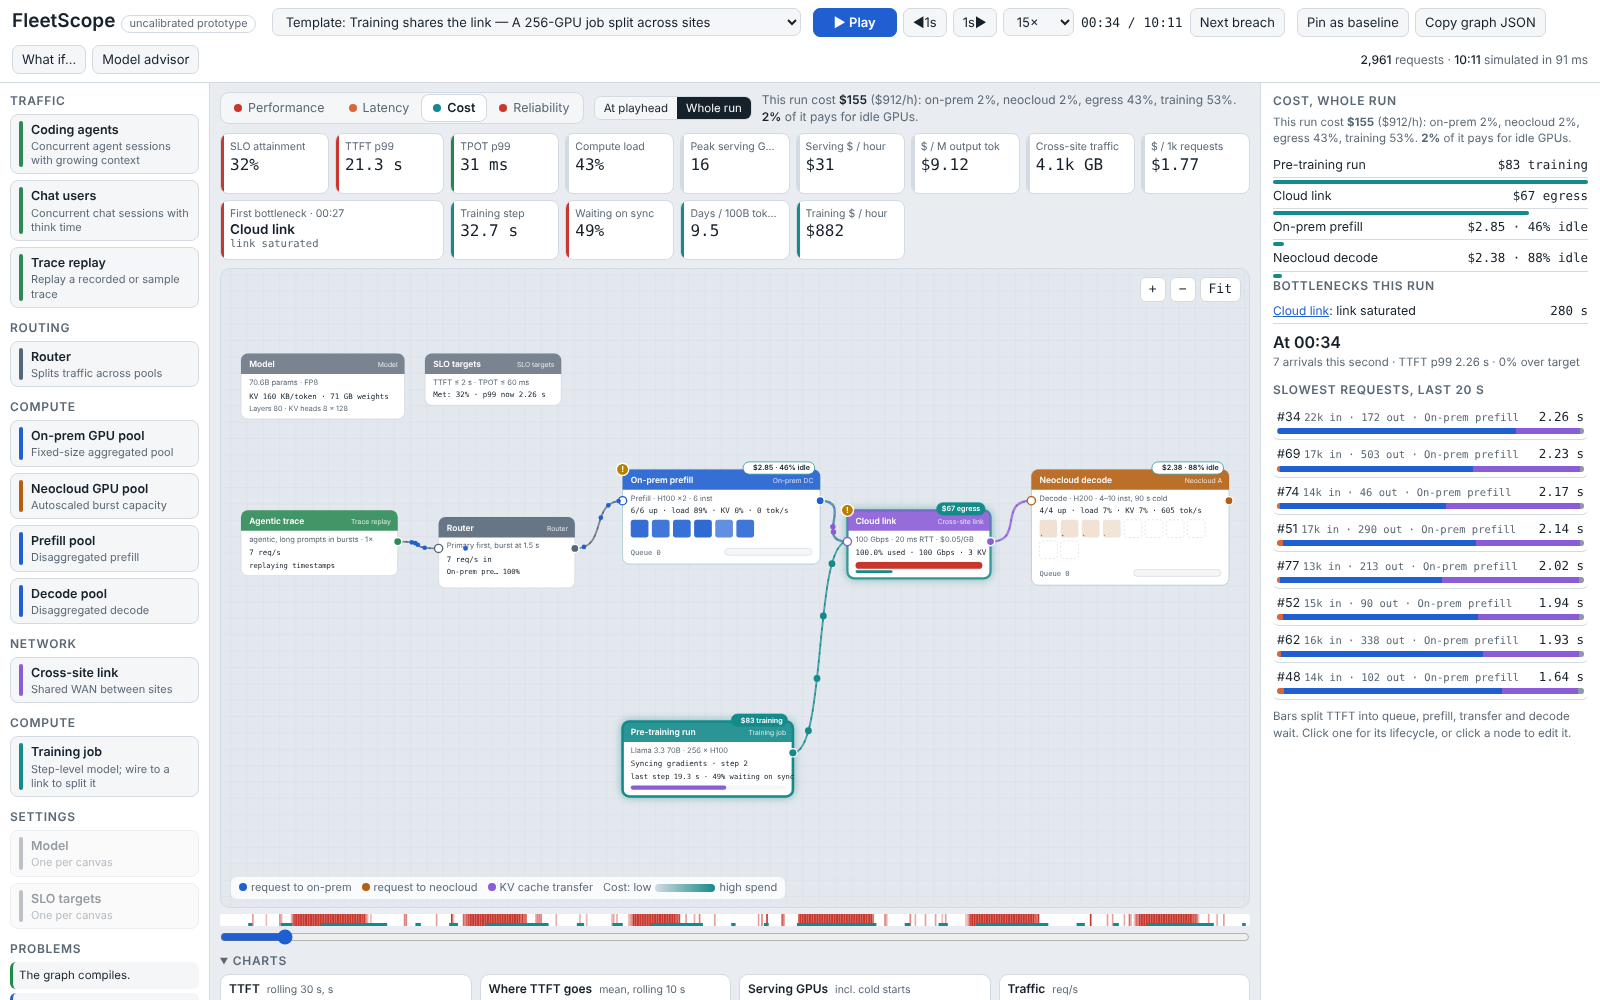
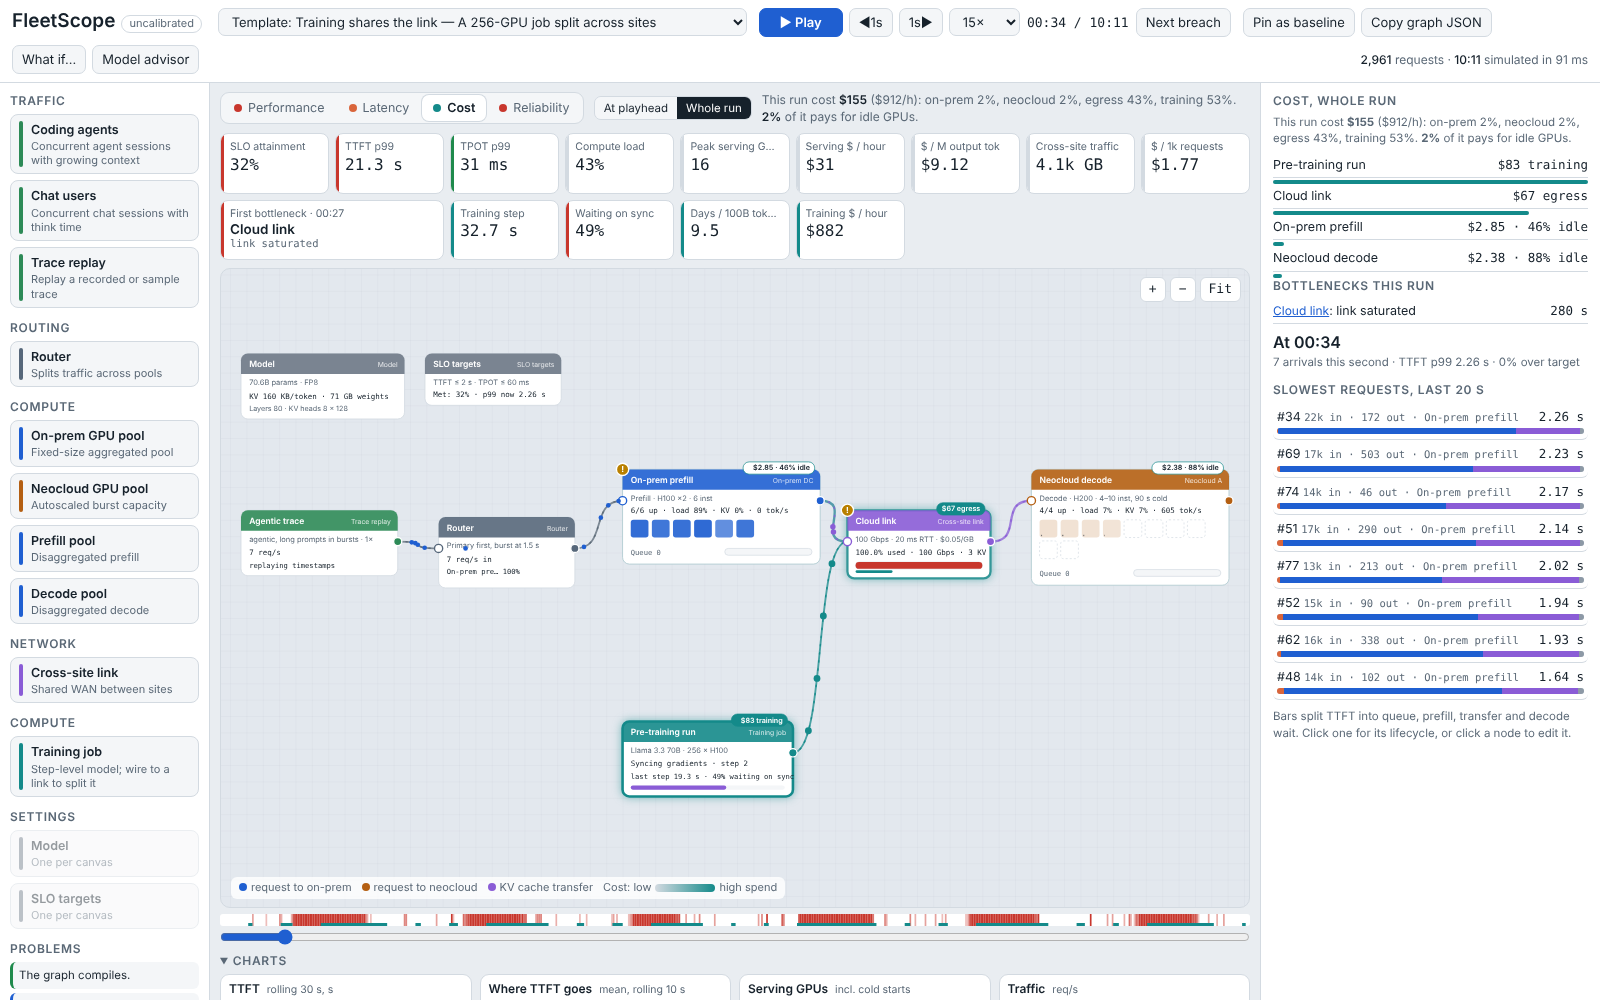
Remove "prototype" from FleetScope and the docs
- FleetScope's header badge now reads "uncalibrated" (its tooltip still explains the figures come from spec sheets,
  not measurements); dist rebuilt.
- README tables, fleetscope README and package.json describe it as a node editor; SPEC.md names the first build
  phase "Node editor and player".
- The 20 screenshots that showed the old badge have the new header pasted in, rendered from the rebuilt page, with
  the controls after it moved left as the page lays them out.
- Skills regenerated (they vendor FleetScope's package.json and page).

Claude-Session: https://claude.ai/code/session_01AELgToQfYVFRVZPFr4Lb1v

Changed region(s): [[0.4688, 0.0, 0.9688, 0.062], [0.125, 0.0, 0.4375, 0.031]]

diff --git a/fleetscope/dist/index.html b/fleetscope/dist/index.html
@@ -319,7 +319,7 @@ button, select, input { font: inherit; color: inherit; }
   <div class="chgList" id="chgList" hidden></div></nav>
 <div class="shell" id="fleetApp">
   <header class="toolbar">
-    <div class="brand"><b>FleetScope</b><span title="Performance comes from spec-sheet figures and fixed efficiency factors, not measurements">uncalibrated prototype</span></div>
+    <div class="brand"><b>FleetScope</b><span title="Performance comes from spec-sheet figures and fixed efficiency factors, not measurements">uncalibrated</span></div>
     <div class="tb">
       <select id="tpl" aria-label="Load a template" title="Loading a template replaces the canvas"></select>
     </div>

diff --git a/fleetscope/src/index.src.html b/fleetscope/src/index.src.html
@@ -319,7 +319,7 @@ button, select, input { font: inherit; color: inherit; }
   <div class="chgList" id="chgList" hidden></div></nav>
 <div class="shell" id="fleetApp">
   <header class="toolbar">
-    <div class="brand"><b>FleetScope</b><span title="Performance comes from spec-sheet figures and fixed efficiency factors, not measurements">uncalibrated prototype</span></div>
+    <div class="brand"><b>FleetScope</b><span title="Performance comes from spec-sheet figures and fixed efficiency factors, not measurements">uncalibrated</span></div>
     <div class="tb">
       <select id="tpl" aria-label="Load a template" title="Loading a template replaces the canvas"></select>
     </div>

diff --git a/skills/fleetops/scripts/fleetscope/src/index.src.html b/skills/fleetops/scripts/fleetscope/src/index.src.html
@@ -319,7 +319,7 @@ button, select, input { font: inherit; color: inherit; }
   <div class="chgList" id="chgList" hidden></div></nav>
 <div class="shell" id="fleetApp">
   <header class="toolbar">
-    <div class="brand"><b>FleetScope</b><span title="Performance comes from spec-sheet figures and fixed efficiency factors, not measurements">uncalibrated prototype</span></div>
+    <div class="brand"><b>FleetScope</b><span title="Performance comes from spec-sheet figures and fixed efficiency factors, not measurements">uncalibrated</span></div>
     <div class="tb">
       <select id="tpl" aria-label="Load a template" title="Loading a template replaces the canvas"></select>
     </div>

diff --git a/skills/fleetscope/scripts/fleetscope/src/index.src.html b/skills/fleetscope/scripts/fleetscope/src/index.src.html
@@ -319,7 +319,7 @@ button, select, input { font: inherit; color: inherit; }
   <div class="chgList" id="chgList" hidden></div></nav>
 <div class="shell" id="fleetApp">
   <header class="toolbar">
-    <div class="brand"><b>FleetScope</b><span title="Performance comes from spec-sheet figures and fixed efficiency factors, not measurements">uncalibrated prototype</span></div>
+    <div class="brand"><b>FleetScope</b><span title="Performance comes from spec-sheet figures and fixed efficiency factors, not measurements">uncalibrated</span></div>
     <div class="tb">
       <select id="tpl" aria-label="Load a template" title="Loading a template replaces the canvas"></select>
     </div>

diff --git a/fleetscope/docs/SPEC.md b/fleetscope/docs/SPEC.md
@@ -65,7 +65,7 @@ There are four inputs, all plain files under version control: a trace, a fleet s
 | GPU profile | gpu_type, model, engine, prefill_tok_s, decode step time = a + b × batch, kv_capacity_tokens, kv_bytes_per_token, source (aiconfigurator / measured / calibrated) | Profile store |
 | Policy | router (least queue / on-prem first with burst threshold / cost first), autoscaler targets and delays, admission limits | Scenario file |
 
-The prototype stores scenarios as graph JSON (nodes with knobs, plus wires); **Copy graph JSON** exports it.
+FleetScope stores scenarios as graph JSON (nodes with knobs, plus wires); **Copy graph JSON** exports it.
 
 ## Simulation engine
 
@@ -90,7 +90,7 @@ step = a + b0 · B + c · Σ context tokens        tokens/s per instance = B / s
 | Tier | Model | Use |
 | --- | --- | --- |
 | 0 | Analytical: M/G/c queueing per pool | Sweep hundreds of fleet options in seconds to shortlist |
-| 1 | Time-stepped fleet simulation (above) | Default for the player; what the prototype runs |
+| 1 | Time-stepped fleet simulation (above) | Default for the player; what FleetScope runs |
 | 2 | Per-engine plug-ins: AIConfigurator or Vidur for profiles, Dynamo DynoSim Replay for request-level checks | Confirm a shortlisted option for one serving stack |
 | 3 | Network-level: SimAI / ASTRA-sim | Training placement and collective traffic (phase 3) |
 
@@ -235,7 +235,7 @@ Details: [ASK.md](ASK.md).
 
 ## Build phases
 
-1. **Prototype (done):** a browser-only node editor and player on the tier-1 engine, with agent, chat, trace and training nodes, seven templates and baseline compare. Profiles come from spec sheets, not measurements.
+1. **Node editor and player (done):** a browser-only node editor and player on the tier-1 engine, with agent, chat, trace and training nodes, seven templates and baseline compare. Profiles come from spec sheets, not measurements.
 1b. **Stress and advisor (done):** what-if overlays, scenario suite, breaking-point search, bottleneck attribution, model advisor with reasoning levels.
 2. **Pilot:** load one real week of production traces (vLLM tracing spans and gateway logs: importer and recorded-vs-simulated TTFT done, see [TRACES.md](TRACES.md)); closed-loop replay of recorded sessions; YAML scenarios; profiles seeded from AIConfigurator, then calibrated against one recorded hour; engine moved into a web worker; run store and shareable run links.
 3. **Training and placement:** training jobs from Slurm/K8s history; SimAI hooks for collective traffic; placement policies.

diff --git a/fleetscope/README.md b/fleetscope/README.md
@@ -1,6 +1,6 @@
 # FleetScope
 
-A node-editor prototype for capacity planning on hybrid GPU fleets: on-prem plus neocloud. Drag traffic sources, routers, GPU pools, cross-site links and training jobs onto a canvas and wire them together. Press Play to replay traffic and watch requests, KV caches and gradient syncs move through the fleet. Change any knob and the whole trace re-simulates (usually in under half a second), keeping your place in the timeline.
+A node editor for capacity planning on hybrid GPU fleets: on-prem plus neocloud. Drag traffic sources, routers, GPU pools, cross-site links and training jobs onto a canvas and wire them together. Press Play to replay traffic and watch requests, KV caches and gradient syncs move through the fleet. Change any knob and the whole trace re-simulates (usually in under half a second), keeping your place in the timeline.
 
 > **Uncalibrated.** Performance comes from spec-sheet GPU figures and fixed efficiency factors (a first-order roofline), and the GPU prices are placeholders. Treat results as directional until profiles are calibrated against measured telemetry; see [docs/SPEC.md](docs/SPEC.md#calibration-against-real-telemetry).
 

diff --git a/README.md b/README.md
@@ -4,7 +4,7 @@ Tools that help capacity building in AIInfra. Each tool lives in its own folder 
 
 | Tool | What it is |
 | --- | --- |
-| [fleetscope](fleetscope/) | Node-editor prototype for replaying LLM traffic on a modelled hybrid (on-prem + neocloud) GPU fleet |
+| [fleetscope](fleetscope/) | Node editor for replaying LLM traffic on a modelled hybrid (on-prem + neocloud) GPU fleet |
 | [inference-sizer](inference-sizer/) | How many GPUs, in what layout, serve a model at TTFT/TPOT targets; exports to FleetScope |
 | [gpu-health](gpu-health/) | Health checks, utilization and savings for GPU fleets, with suggested fixes that run once approved |
 | [hybrid-tracing](hybrid-tracing/) | One trace view across on-prem and neocloud: shared clock reference (PTP/chrony), collector tiers, and clock-skew correction for traces |
